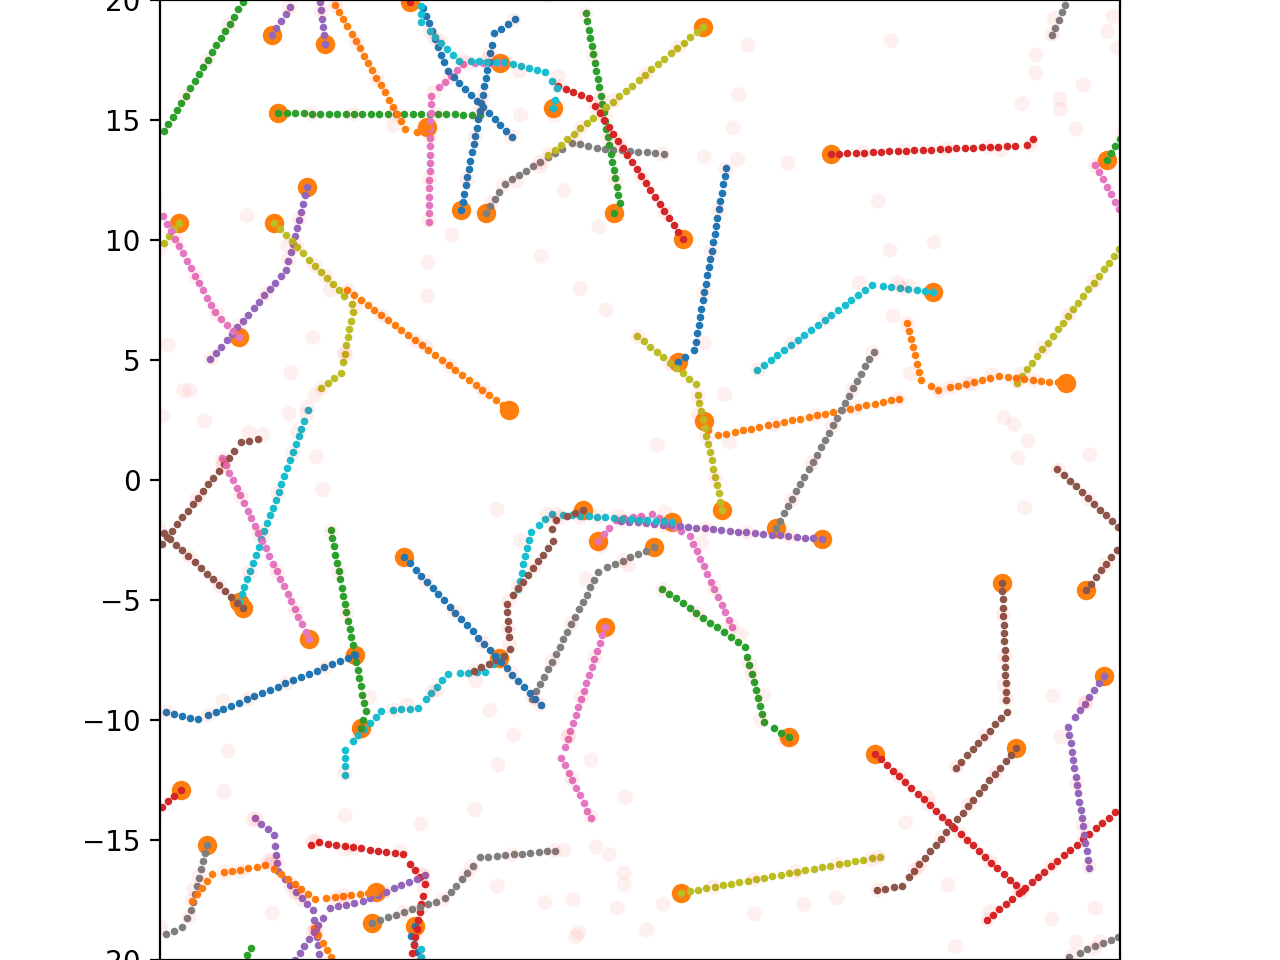
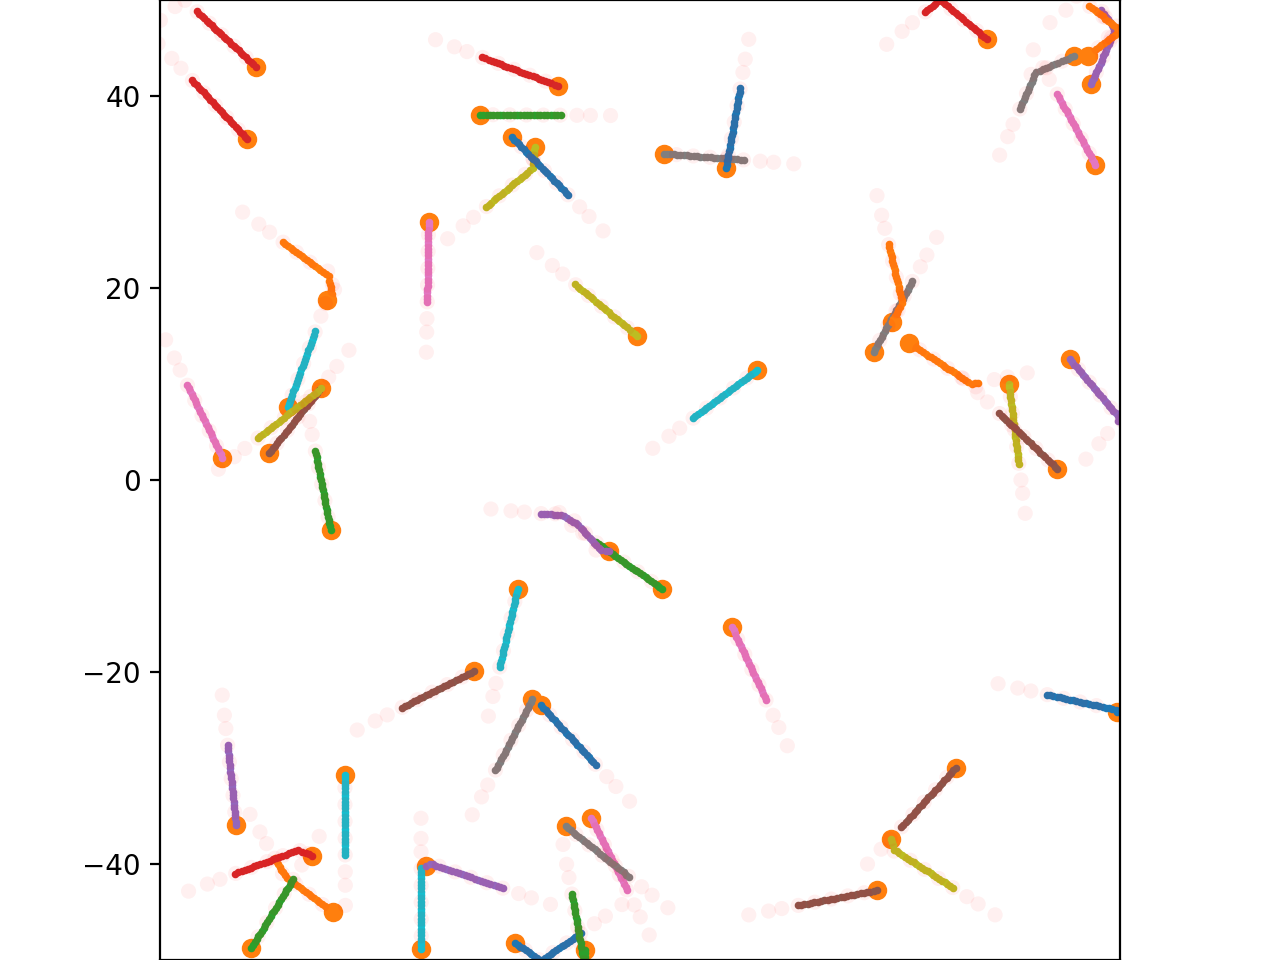
wtv

diff --git a/AntsParalell.py b/AntsParalell.py
@@ -194,7 +194,8 @@ def FeltPheromone(ant):
         SW = [sum(x) for x in zip(S,W)]
         SE = [sum(x) for x in zip(S,E)]
         neighboring_squares = [N,S,E,W,NW,NE,SW,SE]
-        near = [p[0] for p in ant.nearphero]
+#        near = [p[0] for p in ant.nearphero]
+        near = ant.nearphero
         for ph in near:
             xl = ph.posx - alx
             yl = ph.posy - aly
@@ -207,7 +208,8 @@ def FeltPheromone(ant):
                 resultL = resultL + Heat(xl+dir[0],yl+dir[1],t)
                 resultR = resultR + Heat(xr+dir[0],yr+dir[1],t)
     if BC == 'reflective':
-        near = [p[0] for p in ant.nearphero]
+#        near = [p[0] for p in ant.nearphero]
+        near = ant.nearphero
         for ph in near:
             xl = ph.posx - alx
             yl = ph.posy - aly
@@ -390,14 +392,13 @@ def DrawPheromone(j):
 
 print('using {} cores'.format(Cores))
 
-plot_exists = False
 real_iter = 1
-real_iter_each_iter = 10
+real_iter_each_iter = 20
 a_certain_radius = 10.*SENSING_AREA_RADIUS
 
 rad = a_certain_radius*a_certain_radius
 will_probably_walk_this_much = NaturalVelocity*delta_t
-save_some_iterations = 20
+save_some_iterations = 10
 smaller_radius = a_certain_radius - save_some_iterations * will_probably_walk_this_much
 smaller_radius *= smaller_radius
 '''  droplets inside this squared radius will stay near even after save_some_iterations iterations. '''
@@ -445,13 +446,15 @@ def update(iter):
         ''' drop pheromones '''
         each = drop_or_not(CurrentTime)
         if each:
-            NewPheromone = []
-            for j in [result[k][0] for k in range(len(result))]:
+            print('dropping')
+#            NewPheromone = []
+            for j in b:
+#            for j in [result[k][0] for k in range(len(result))]:
                 AllTheAnts[j].stingposx = AllTheAnts[j].posx - SENSING_AREA_RADIUS*np.cos(Angle(AllTheAnts[j].velx,AllTheAnts[j].vely))
                 AllTheAnts[j].stingposy = AllTheAnts[j].posy - SENSING_AREA_RADIUS*np.sin(Angle(AllTheAnts[j].velx,AllTheAnts[j].vely))
                 droplet = Droplet(AllTheAnts[j],CurrentTime)
                 AllThePheromone.append(droplet)
-                NewPheromone.append(droplet)
+#                NewPheromone.append(droplet)
 
 
         ''' compute near pheromones for each ant '''
@@ -463,7 +466,7 @@ def update(iter):
                 posdrop = [drop.posx,drop.posy]
                 distsq = DistanceSq(posant,posdrop)
                 if distsq <= rad:
-                    AllTheAnts[j].nearphero.append([drop,distsq])
+                    AllTheAnts[j].nearphero.append(drop)
 
 
 #

diff --git a/file_to_be_read_by_python.py b/file_to_be_read_by_python.py
@@ -1,7 +1,7 @@
 import numpy as np
 NumberOfAnts = 50
-MaxActiveDropletsPerAnt = 100
-Cores = 2
+MaxActiveDropletsPerAnt = 150
+Cores = 1
 seed1 = 2
 t_hat_in_seconds = 1.0
 X_hat_in_cm = 1.0
@@ -22,12 +22,12 @@ drop_every_t_hat = drop_every_seconds / t_hat_in_seconds
 DropletAmount = DropletAmountPerUnitTime * drop_every_t_hat
 Threshold = 0.2
 LambdaDeltas = NaturalVelocity/(SENSING_AREA_RADIUS*np.cos(SensingAreaHalfAngle))
-x_1_cm = -20
-x_2_cm = 20
-y_1_cm = -20
-y_2_cm = 20
+x_1_cm = -50
+x_2_cm = 50
+y_1_cm = -50
+y_2_cm = 50
 x_1 = x_1_cm / X_hat_in_cm
 x_2 = x_2_cm / X_hat_in_cm
 y_1 = y_1_cm / X_hat_in_cm
 y_2 = y_2_cm / X_hat_in_cm
-BC = 'periodic'
+BC = 'reflective'

diff --git a/last_used_parameters.py b/last_used_parameters.py
@@ -1,7 +1,7 @@
 import numpy as np
 NumberOfAnts = 50
-MaxActiveDropletsPerAnt = 100
-Cores = 2
+MaxActiveDropletsPerAnt = 150
+Cores = 1
 seed1 = 2
 t_hat_in_seconds = 1.0
 X_hat_in_cm = 1.0
@@ -22,12 +22,12 @@ drop_every_t_hat = drop_every_seconds / t_hat_in_seconds
 DropletAmount = DropletAmountPerUnitTime * drop_every_t_hat
 Threshold = 0.2
 LambdaDeltas = NaturalVelocity/(SENSING_AREA_RADIUS*np.cos(SensingAreaHalfAngle))
-x_1_cm = -20
-x_2_cm = 20
-y_1_cm = -20
-y_2_cm = 20
+x_1_cm = -50
+x_2_cm = 50
+y_1_cm = -50
+y_2_cm = 50
 x_1 = x_1_cm / X_hat_in_cm
 x_2 = x_2_cm / X_hat_in_cm
 y_1 = y_1_cm / X_hat_in_cm
 y_2 = y_2_cm / X_hat_in_cm
-BC = 'periodic'
+BC = 'reflective'
